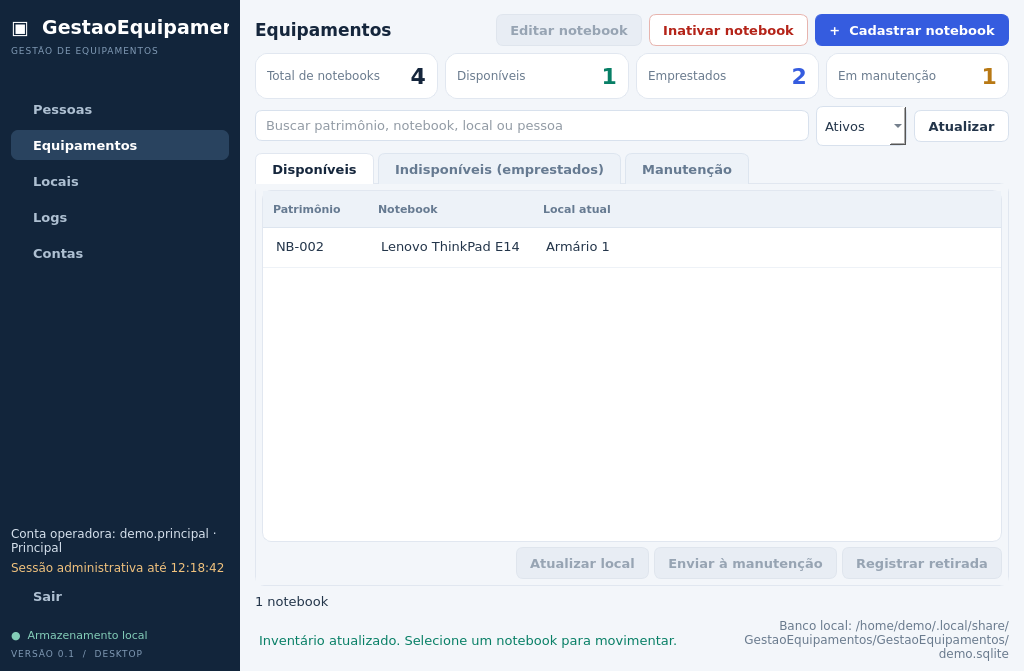
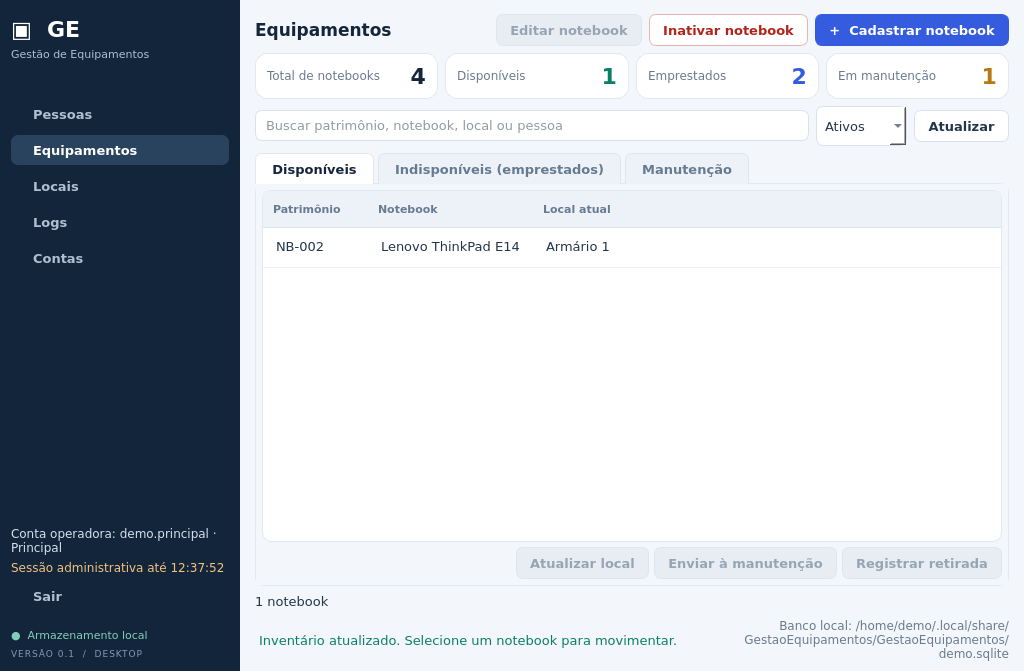
Barra lateral: marca GE com subtítulo Gestão de Equipamentos

Changed region(s): [[0.0, 0.149, 0.2188, 0.3875], [0.0, 0.0298, 0.2188, 0.0894], [0.1875, 0.8346, 0.2188, 0.8644]]

diff --git a/src/ui/MainWindow.cpp b/src/ui/MainWindow.cpp
@@ -93,8 +93,8 @@ MainWindow::MainWindow(NotebookStore &store, AuthService &auth, AccountService &
     auto *nav = new QVBoxLayout(sidebar);
     nav->setContentsMargins(22, 32, 22, 24);
     nav->setSpacing(12);
-    nav->addWidget(label("▣  GestaoEquipamentos", "brand"));
-    nav->addWidget(label("GESTÃO DE EQUIPAMENTOS", "navCaption"));
+    nav->addWidget(label("▣  GE", "brand"));
+    nav->addWidget(label("Gestão de Equipamentos", "navSubtitle"));
     nav->addSpacing(32);
     auto *inventoryNav = new QPushButton("  Equipamentos");
     inventoryNav->setObjectName("navActive");
